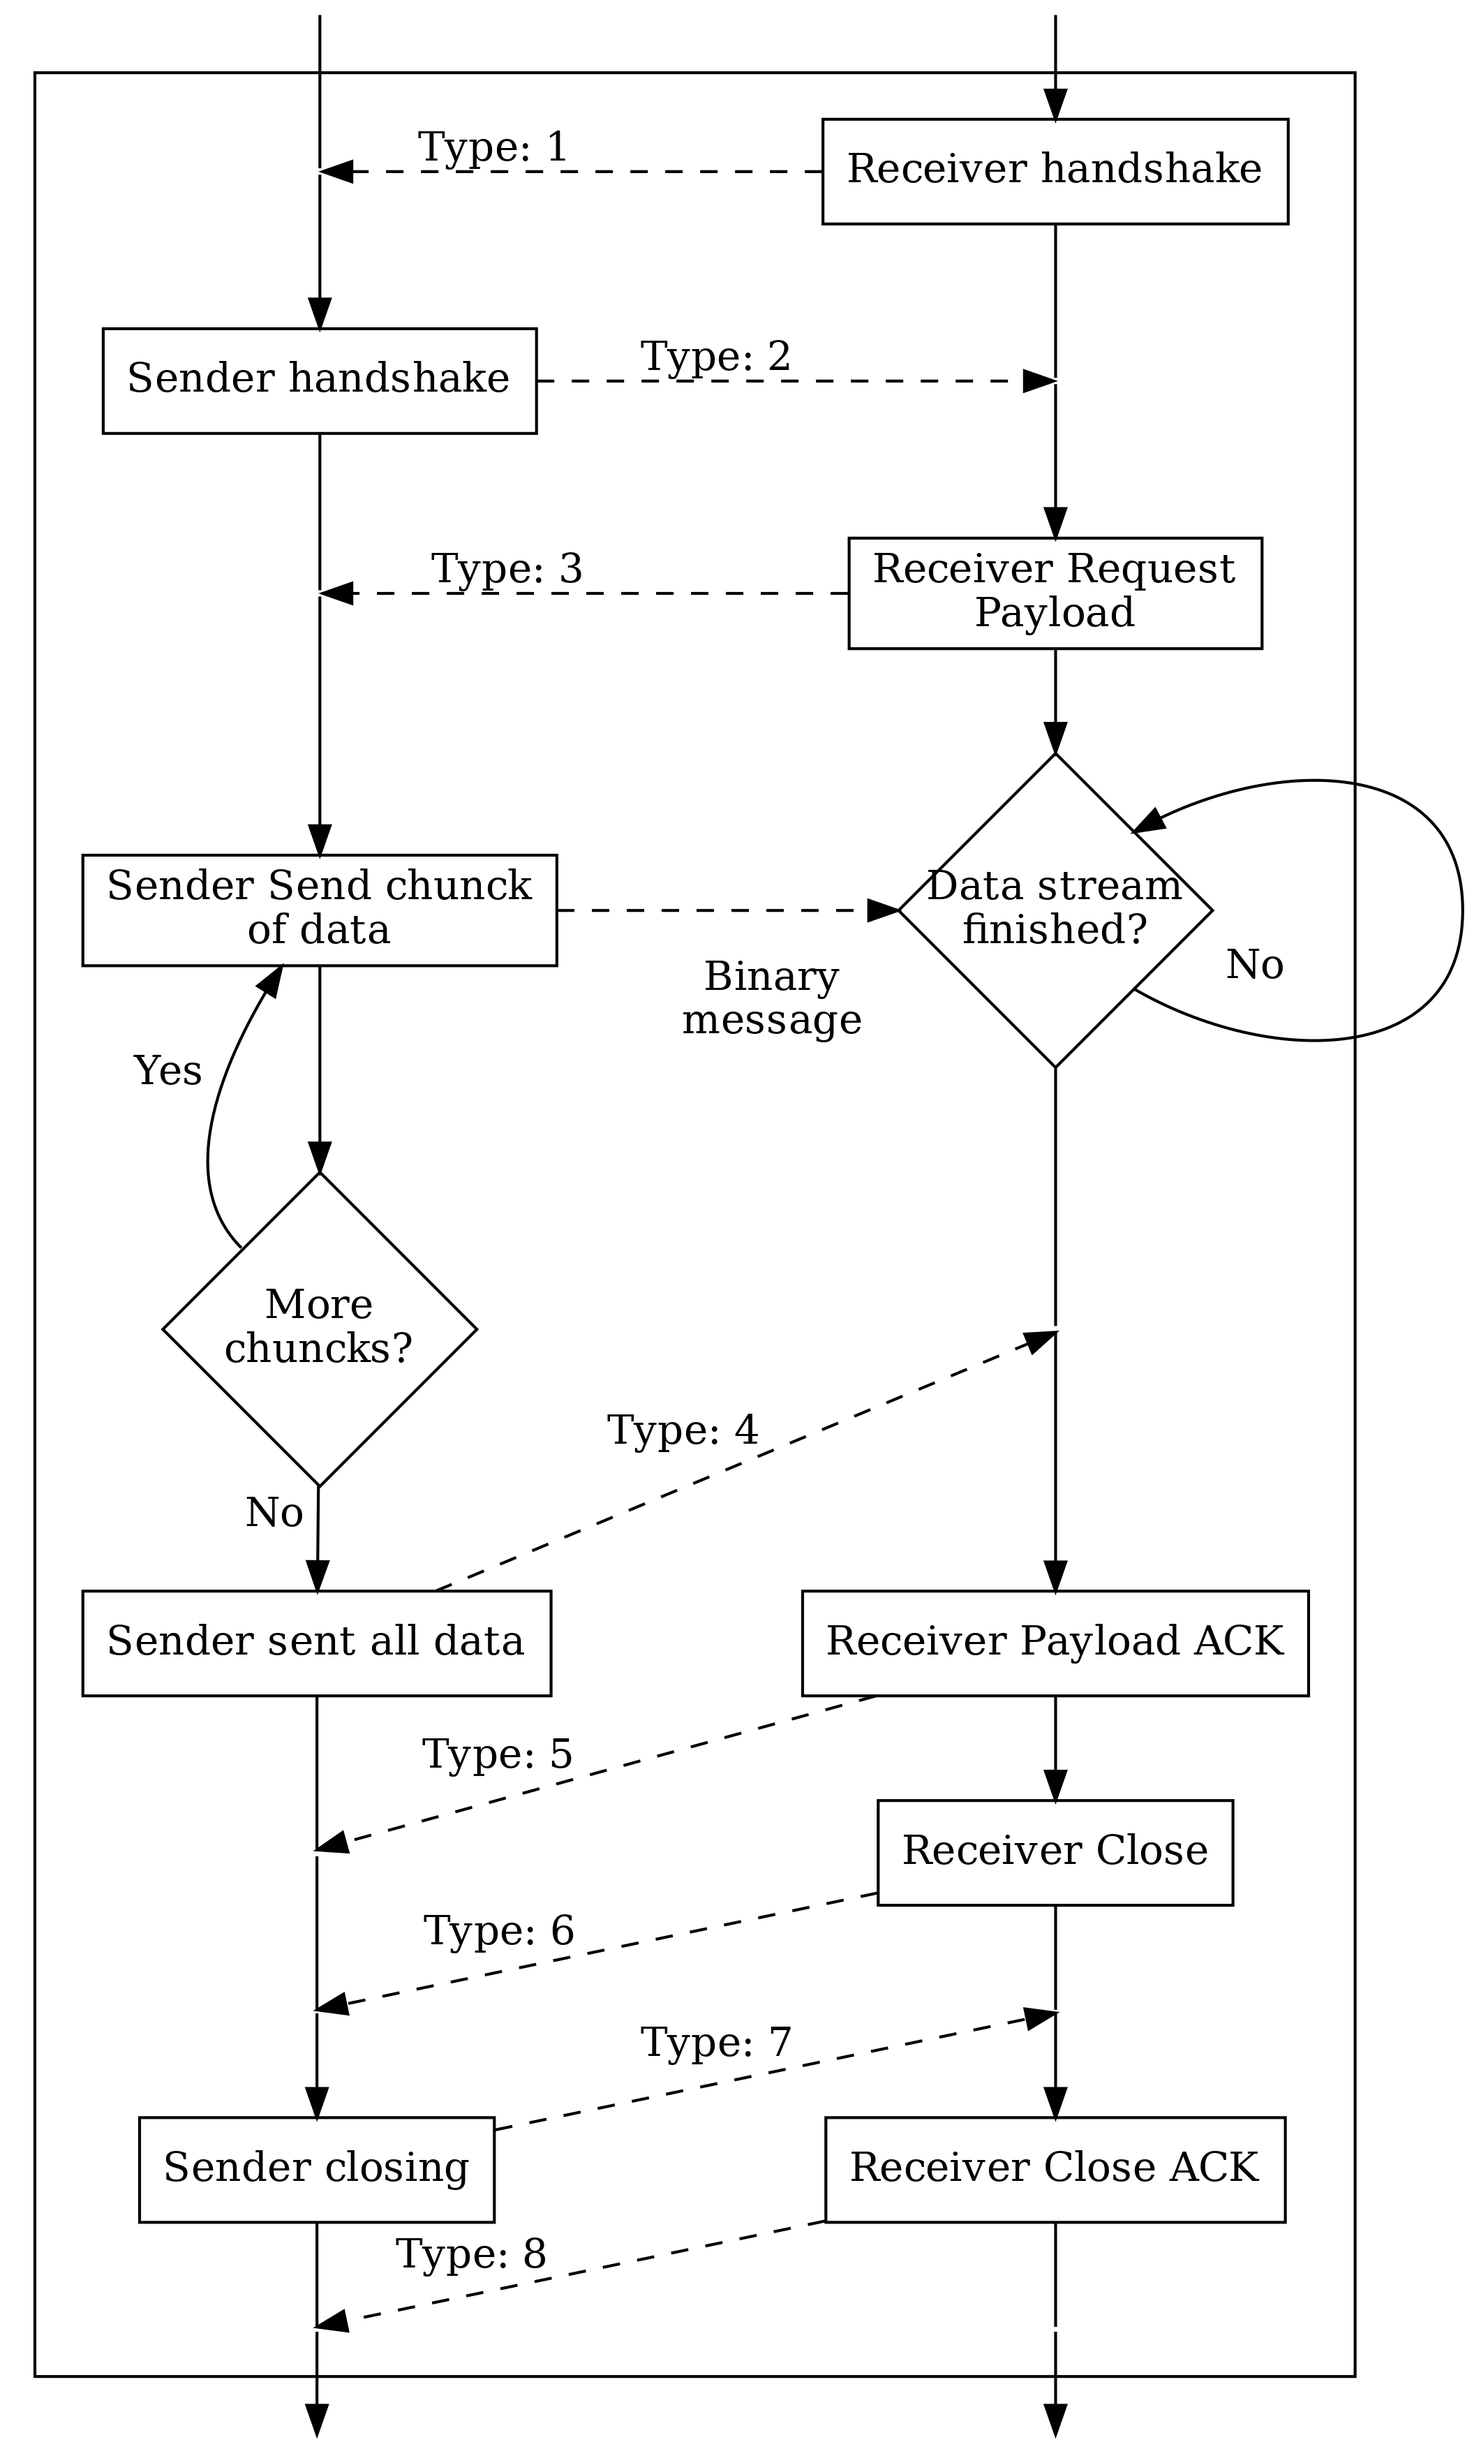
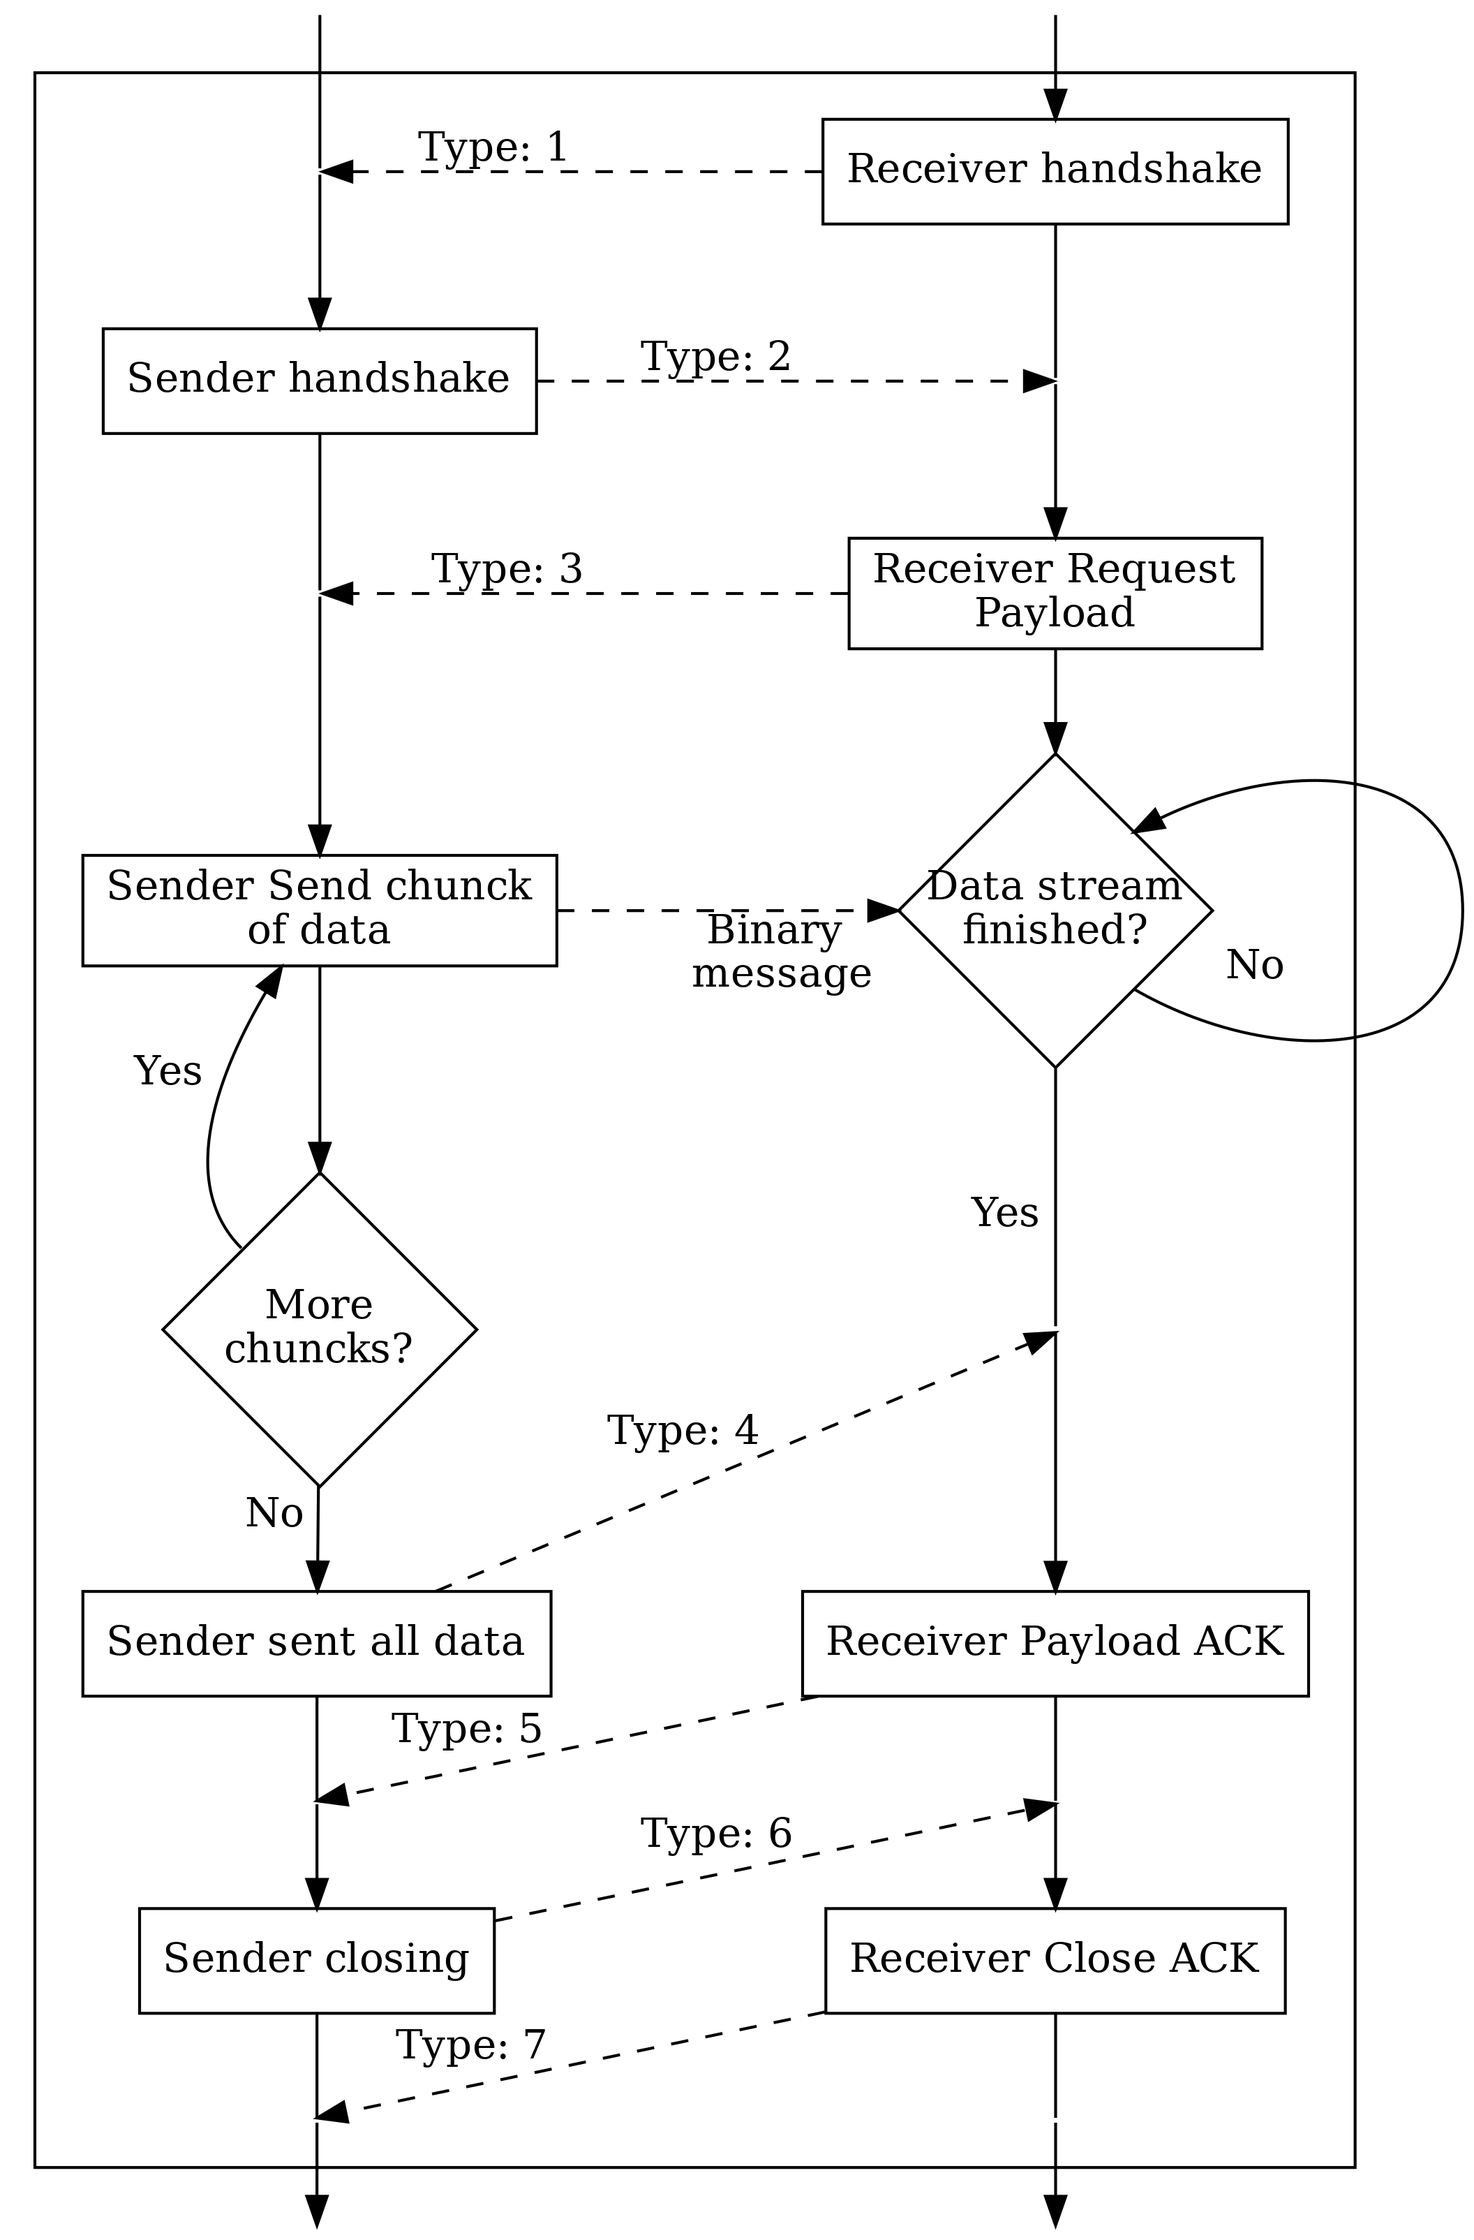
updated documentation

diff --git a/README.md b/README.md
@@ -16,14 +16,13 @@ The squared of transfer sequence is explained in more detail in the following st
 
 The message `type` can be looked up in this here table,
 
-| Type code    | Name                   | Direction    |
-|--            | --                     | --           |
-| 0            | Error                  | R ↔ S        |
-| 1            | ReceiverHandshake      | R → S        |
-| 2            | SenderHandshake        | S → R        |
-| 3            | ReceiverRequestPayload | R → S        |
-| 4            | SenderPayloadSent      | S → R        |
-| 5            | ReceiverAckPayload     | R → S        |
-| 6            | ReceiverClosing        | R → S        |
-| 7            | SenderClosing          | S → R        |
-| 8            | ReceiverClosingAck     | R → S        |
+| Type code    | Name                   | Direction    | Payload format           |
+|--            | --                     | --           | --                       |  
+| 0            | Error                  | R ↔ S        | "MESSAGE"                | 
+| 1            | ReceiverHandshake      | R → S        | "MESSAGE"                | 
+| 2            | SenderHandshake        | S → R        | {"payload_size": SIZE  } |
+| 3            | ReceiverRequestPayload | R → S        | "MESSAGE"                | 
+| 4            | SenderPayloadSent      | S → R        | "MESSAGE"                | 
+| 5            | ReceiverAckPayload     | R → S        | "MESSAGE"                | 
+| 6            | SenderClosing          | S → R        | "MESSAGE"                | 
+| 7            | ReceiverClosingAck     | R → S        | "MESSAGE"                | 
